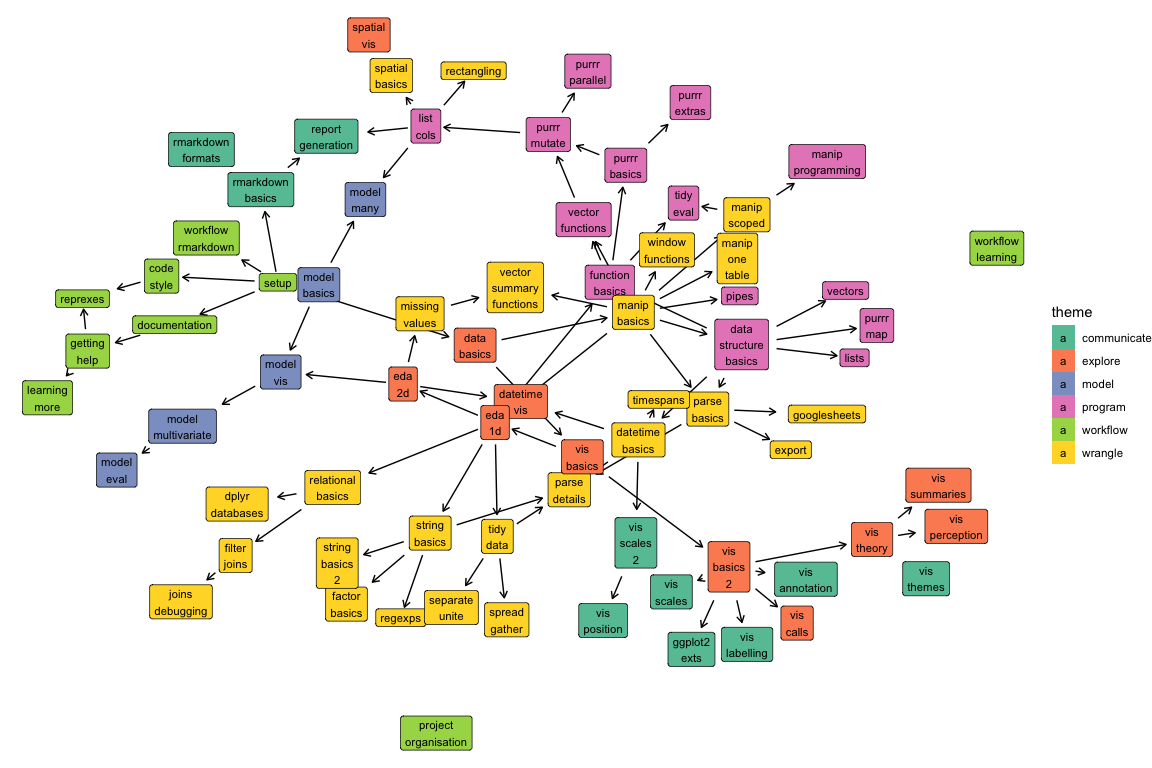
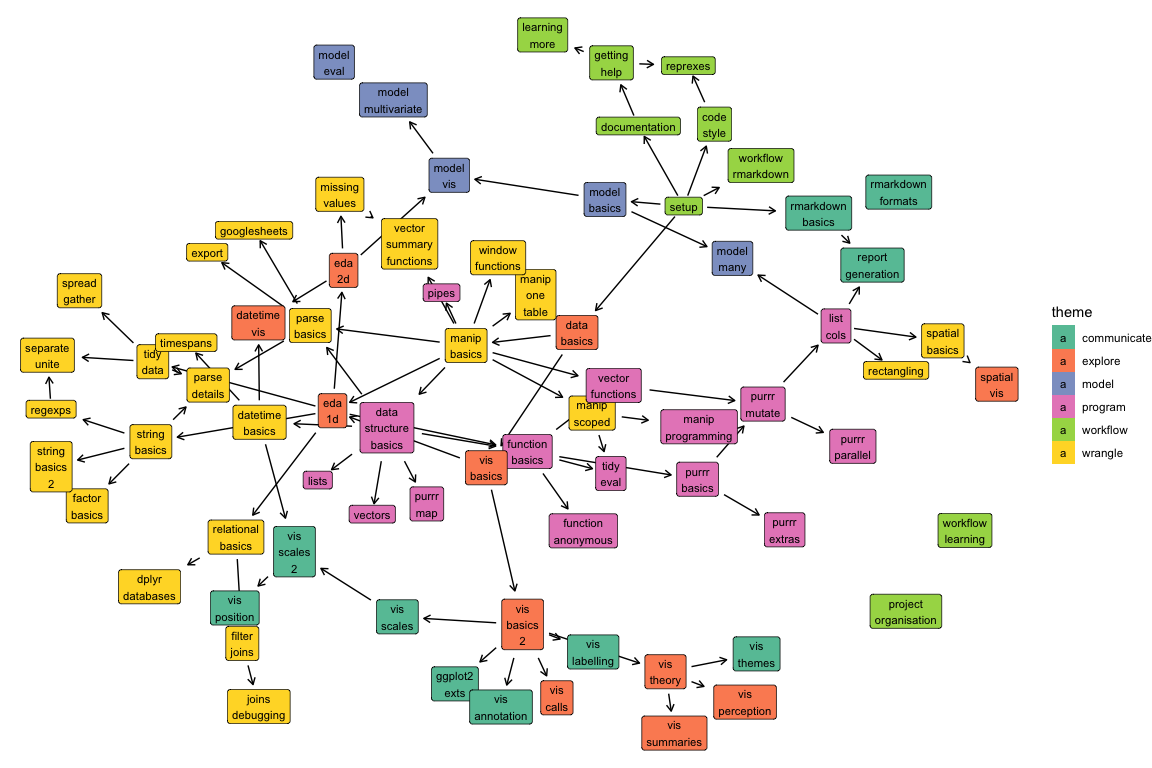
Add function-anonymous

Changed region(s): [[0.0, 0.0, 0.875, 1.0], [0.8438, 0.4688, 0.9062, 0.5312], [0.8438, 0.2812, 0.9062, 0.3438]]

diff --git a/docs/function-anonymous.md b/docs/function-anonymous.md
@@ -1,0 +1,51 @@
+---
+title: Anonymous functions
+---
+
+<!-- Generated automatically from function-anonymous.yml. Do not edit by hand -->
+
+# Anonymous functions <small class='program'>[program]</small>
+<small>(Builds on: [Function basics](function-basics.md))</small>
+
+
+Most functions you'll encounter are named. **Named functions** are functions that are assigned to a variable. The variable allows you to call the function wherever you'd like without repeating the original code.
+
+`excited_word()` is a named function that turns a bored word into an excited one. The variable `excited_word` contains the function's code, while `excited_word()` calls the function.
+
+``` r
+excited_word <- function(word) str_glue("{str_to_upper(word)}!!!")
+
+excited_word
+```
+
+    ## function(word) str_glue("{str_to_upper(word)}!!!")
+    ## <environment: 0x7f9cabddd9d8>
+
+``` r
+excited_word("pinecones")
+```
+
+    ## PINECONES!!!
+
+**Anonymous functions** are functions without names. They're useful when you want to create a new function, but don't plan on calling that function again. For example, you'll commonly use anonymous function as arguments to other functions.
+
+In base R, the syntax for creating an anonymous function is very similar to the syntax for a named function. The only difference is that you don't assign the function to a variable.
+
+The following is the anonymous function version of `excited_word()`. It contains only the function's code.
+
+``` r
+function(word) str_glue("{str_to_upper(word)}!!!")
+```
+
+    ## function(word) str_glue("{str_to_upper(word)}!!!")
+    ## <environment: 0x7f9cabddd9d8>
+
+You can call anonymous functions, although you have to wrap the entire function in parentheses.
+
+``` r
+(function(word) str_glue("{str_to_upper(word)}!!!"))("pinecones")
+```
+
+    ## PINECONES!!!
+
+Fortunately, the tidyverse includes shortcuts for creating anonymous functions that make them much easier to read. You'll learn about these shortcuts in the "Scoped verbs" and "purrr basics" readings.

diff --git a/docs/function-basics.md b/docs/function-basics.md
@@ -6,7 +6,7 @@ title: Function basics
 
 # Function basics <small class='program'>[program]</small>
 <small>(Builds on: [Exploratory data analysis (1D)](eda-1d.md), [Data structure basics](data-structure-basics.md))</small>  
-<small>(Leads to: [purrr basics](purrr-basics.md), [Tidy evaluation](tidy-eval.md), [Vector functions](vector-functions.md))</small>
+<small>(Leads to: [Anonymous functions](function-anonymous.md), [purrr basics](purrr-basics.md), [Tidy evaluation](tidy-eval.md), [Vector functions](vector-functions.md))</small>
 
 Functions are powerful tool for reducing the amount of duplication in your
 code. Reducing duplication is a good principle because it means that

diff --git a/docs/index.md b/docs/index.md
@@ -160,6 +160,12 @@ title: Theme index
 <tr>
 <td></td>
   <td colspan="2"></td>
+  <td colspan="4"><a class="program" href="function-anonymous.html">Anonymous functions</a></td>
+  <td colspan="3"></td>
+</tr>
+<tr>
+<td></td>
+  <td colspan="2"></td>
   <td colspan="4"><a class="program" href="purrr-basics.html">purrr basics</a></td>
   <td colspan="3"></td>
 </tr>

diff --git a/docs/upcoming.md b/docs/upcoming.md
@@ -160,6 +160,12 @@ title: Theme index
 <tr>
 <td></td>
   <td colspan="2"></td>
+  <td colspan="4"><a class="program" href="function-anonymous.html">Anonymous functions</a></td>
+  <td colspan="3"></td>
+</tr>
+<tr>
+<td></td>
+  <td colspan="2"></td>
   <td colspan="4"><a class="program" href="purrr-basics.html">purrr basics</a></td>
   <td colspan="3"></td>
 </tr>
